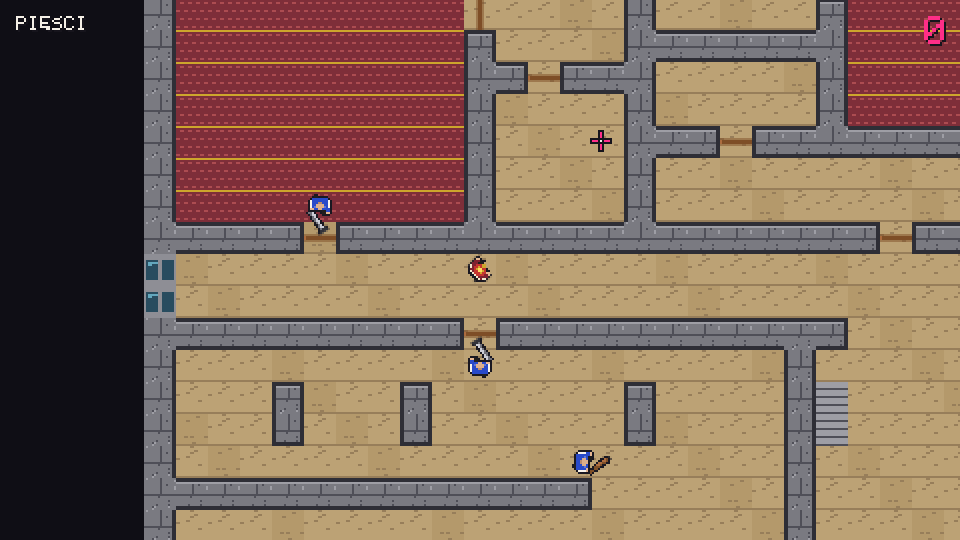
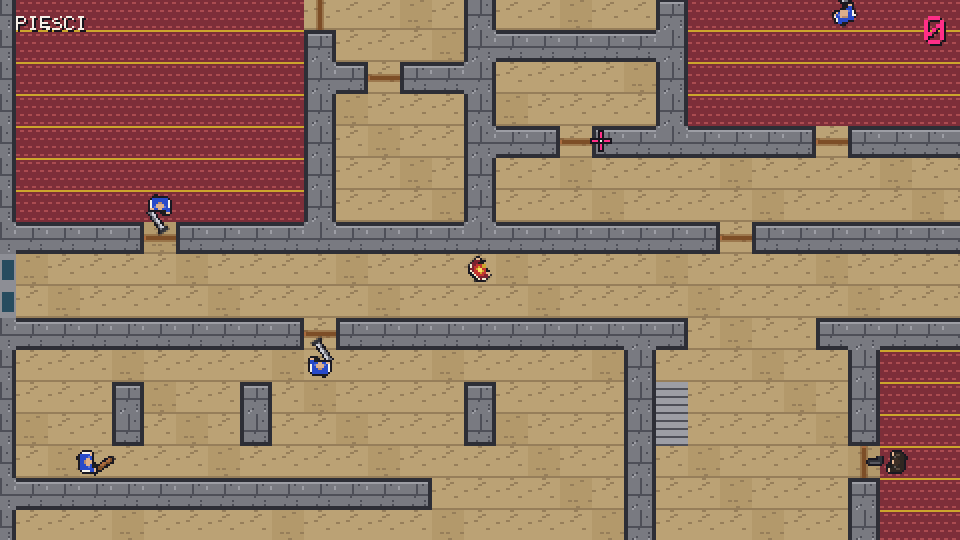
fix: free-standing acutes on Ć Ó Ś Ź, notched Ż; validate ground; retake screenshots
R26 batch (Task 15 leftovers): the body's top row is notched under the
acute / Ż dot so the mark no longer merges into a hook (Ś in PIĘŚCI now
reads as Ś). levels/validate checks the optional per-floor ground field
(list of {tile asphalt|pavement, rect [x0,y0,x1,y1] in bounds}). Retook
screenshots that show the changed glyphs (1b, 2-6, 9-11, 13, 14, 16).

diff --git a/test/validate.test.js b/test/validate.test.js
@@ -58,3 +58,28 @@ test('stair on non-S tile and bad target tile', () => {
   assert.equal(V(makeLevel(null, { floors: [f0, f1] })).length, 2);
 });
 test('targetScore 0', () => { const l = makeLevel(ROWS); l.targetScore = 0; one(l, 'targetScore'); });
+
+// optional per-floor ground: [{ tile: 'asphalt' | 'pavement', rect: [x0, y0, x1, y1] }] (inclusive, in bounds)
+const withGround = (ground) => { const l = makeLevel(ROWS); l.floors[0].ground = ground; return l; };
+test('valid ground rects have no errors', () => {
+  assert.deepEqual(V(withGround([{ tile: 'asphalt', rect: [1, 1, 2, 2] }, { tile: 'pavement', rect: [0, 0, 6, 4] }])), []);
+  assert.deepEqual(V(withGround([])), []);
+});
+test('ground that is not an array', () => one(withGround({ tile: 'asphalt', rect: [1, 1, 2, 2] }), 'ground'));
+test('ground entry that is not an object', () => one(withGround([null]), 'ground 0'));
+test('ground with unknown tile', () => one(withGround([{ tile: 'lava', rect: [1, 1, 2, 2] }]), 'unknown tile "lava"'));
+test('ground rect not 4 integers', () => {
+  one(withGround([{ tile: 'asphalt', rect: [1, 1, 2] }]), 'rect');
+  one(withGround([{ tile: 'asphalt', rect: [1, 1.5, 2, 2] }]), 'rect');
+  one(withGround([{ tile: 'asphalt' }]), 'rect');
+});
+test('ground rect out of bounds or inverted', () => {
+  one(withGround([{ tile: 'asphalt', rect: [1, 1, 7, 2] }]), 'out of bounds');
+  one(withGround([{ tile: 'asphalt', rect: [-1, 0, 2, 2] }]), 'out of bounds');
+  one(withGround([{ tile: 'asphalt', rect: [3, 1, 2, 2] }]), 'out of bounds');
+});
+test('several bad ground entries each get an error', () => {
+  const errs = V(withGround([{ tile: 'lava', rect: [1, 1, 2, 2] }, { tile: 'asphalt', rect: [0, 0, 9, 9] }]));
+  assert.equal(errs.length, 2, JSON.stringify(errs));
+  assert.ok(errs[0].includes('floor 0 ground 0') && errs[1].includes('floor 0 ground 1'), JSON.stringify(errs));
+});

diff --git a/js/gfx/font.js b/js/gfx/font.js
@@ -3,7 +3,8 @@
 
   // 5×7 bitmap glyphs: 7 rows of 5 chars, '#' = lit pixel.
   // Accented capitals stay full height: acute/dot takes row 0 above a 6-row letter body,
-  // the ogonek hangs in row 6 below a 6-row body.
+  // the ogonek hangs in row 6 below a 6-row body. The body's top row is notched under the
+  // acute (and under the Ż dot) so the mark stands free instead of merging into a hook.
   const G = (s) => s.split(' ');
   const GLYPHS = {
     A: G('.###. #...# #...# ##### #...# #...# #...#'),
@@ -33,14 +34,14 @@
     Y: G('#...# #...# .#.#. ..#.. ..#.. ..#.. ..#..'),
     Z: G('##### ....# ...#. ..#.. .#... #.... #####'),
     'Ą': G('.###. #...# #...# ##### #...# #...# ...##'),
-    'Ć': G('....# .###. #...# #.... #.... #...# .###.'),
+    'Ć': G('....# .##.. #.... #.... #.... #...# .###.'),
     'Ę': G('##### #.... #.... ####. #.... ##### ...##'),
     'Ł': G('.#... .#... .#.#. .##.. ##... .#... .####'),
     'Ń': G('...#. #...# ##..# #.#.# #..## #...# #...#'),
-    'Ó': G('....# .###. #...# #...# #...# #...# .###.'),
-    'Ś': G('....# .###. #.... .###. ....# ....# ####.'),
-    'Ź': G('....# ####. ...#. ..#.. .#... #.... #####'),
-    'Ż': G('..#.. ##### ...#. ..#.. .#... #.... #####'),
+    'Ó': G('....# .##.. #...# #...# #...# #...# .###.'),
+    'Ś': G('....# .##.. #.... .###. ....# ....# ####.'),
+    'Ź': G('....# ###.. ...#. ..#.. .#... #.... #####'),
+    'Ż': G('..#.. ##.## ...#. ..#.. .#... #.... #####'),
     0: G('.###. #...# #..## #.#.# ##..# #...# .###.'),
     1: G('..#.. .##.. ..#.. ..#.. ..#.. ..#.. .###.'),
     2: G('.###. #...# ....# ...#. ..#.. .#... #####'),

diff --git a/js/levels/validate.js b/js/levels/validate.js
@@ -2,7 +2,26 @@
   'use strict';
 
   const KNOWN = '#.~wDPS';
+  const GROUND_TILES = ['asphalt', 'pavement'];
   HW.levels = HW.levels || {};
+
+  // Optional per-floor outdoor surfaces: [{ tile: 'asphalt' | 'pavement', rect: [x0, y0, x1, y1] }],
+  // corners inclusive and inside the map.
+  function validateGround(ground, map, err) {
+    if (ground === undefined) return;
+    if (!Array.isArray(ground)) { err('ground must be a list of (tile, rect) entries'); return; }
+    ground.forEach((g, gi) => {
+      const where = 'ground ' + gi;
+      if (!g || typeof g !== 'object') { err(where + ' must be an object with tile and rect'); return; }
+      if (!GROUND_TILES.includes(g.tile)) err(where + ' has unknown tile "' + g.tile + '" (expected ' + GROUND_TILES.join(' or ') + ')');
+      const r = g.rect;
+      if (!Array.isArray(r) || r.length !== 4 || !r.every(Number.isInteger)) {
+        err(where + ' rect must be 4 integers (x0, y0, x1, y1)');
+      } else if (r[0] < 0 || r[1] < 0 || r[0] > r[2] || r[1] > r[3] || r[2] >= map.w || r[3] >= map.h) {
+        err(where + ' rect (' + r + ') is out of bounds or inverted, map is ' + map.w + '×' + map.h);
+      }
+    });
+  }
 
   function validate(level) {
     const errors = [];
@@ -47,6 +66,7 @@
     };
 
     floors.forEach((f, fi) => {
+      validateGround(f.ground, maps[fi], (msg) => err('floor ' + fi + ' ' + msg));
       (f.enemies || []).forEach((e, ei) => {
         const where = 'floor ' + fi + ' enemy ' + ei + ' at (' + e.at + ')';
         if (!HW.enemyTypes[e.type]) err(where + ' has unknown type "' + e.type + '"');

diff --git a/test/presentation.test.js b/test/presentation.test.js
@@ -150,6 +150,19 @@ test('accented capitals are full height, not squeezed like lowercase', () => {
   const L = HW.font.GLYPHS['Ł'];
   assert.ok(L.every(lit), 'Ł spans all 7 rows');
 });
+test('acute marks and the Ż dot stand free of the letter body', () => {
+  // an acute in row 0 must not touch any lit pixel of row 1, not even diagonally
+  for (const ch of 'ĆÓŚŹ') {
+    const g = HW.font.GLYPHS[ch];
+    for (let c = 0; c < 5; c++) {
+      if (g[0][c] !== '#') continue;
+      for (const dc of [-1, 0, 1]) assert.notEqual(g[1][c + dc], '#', ch + ' accent at col ' + c + ' touches the body');
+    }
+  }
+  // the Ż dot does not sit directly on the top bar
+  const Z = HW.font.GLYPHS['Ż'];
+  for (let c = 0; c < 5; c++) if (Z[0][c] === '#') assert.notEqual(Z[1][c], '#', 'Ż dot sits on the bar');
+});
 test('font measure', () => {
   assert.equal(HW.font.measure('', 1), 0);
   assert.equal(HW.font.measure('A', 1), 5);
